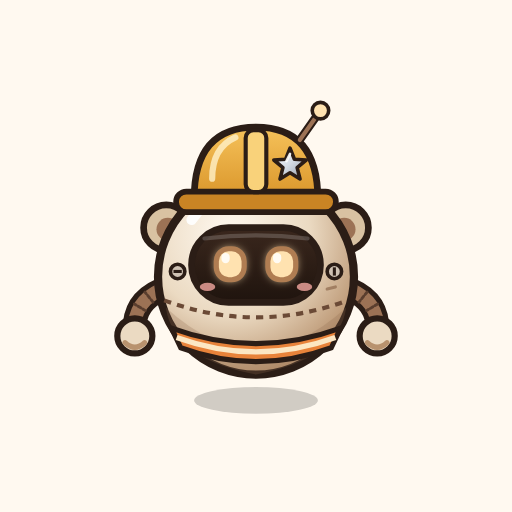
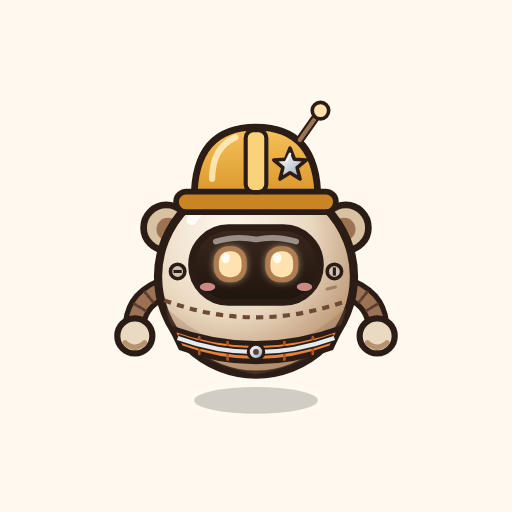
Cortado: unibrow and inflatable float belt; swim emote
- The faint screen glare line becomes a grey unibrow that changes with each
  emote face.
- The hi-vis band is redrawn as its own inflatable layer: stitched air
  chambers, reflective strip and a small valve.
- New swim emote: the belt puffs up into a float ring as water rises.
- Icons regenerated; icon cache version bumped.

Claude-Session: https://claude.ai/code/session_011WcNqT3TP7pNnC4TGZyJwm

Changed region(s): [[0.3438, 0.6562, 0.6562, 0.7188], [0.4062, 0.4375, 0.5938, 0.5]]

diff --git a/src/components/Mascot.jsx b/src/components/Mascot.jsx
@@ -7,7 +7,9 @@ import { useEffect, useRef, useState } from 'react';
 // fluffy, ringed brown-and-cream tail (a little like a red panda's) stays out
 // of sight from the front: at rest it wraps a small grip rung on the back,
 // taking the shape of a mug handle to carry it by. It only shows from the
-// front when wagging or in a fight.
+// front when wagging or in a fight. A grey unibrow sits on its face screen,
+// and its hi-vis belt is an inflatable layer of its own that puffs up into a
+// float ring by itself in water.
 //
 // Clicking Cortado plays the next emote. One of them swaps its headwear.
 export const MASCOT_HATS = [
@@ -24,6 +26,7 @@ const EMOTES = [
   { id: 'hop', label: 'hops', ms: 900 },
   { id: 'hat', label: 'swaps its headwear', ms: 800 },
   { id: 'dash', label: 'dashes on its wheels', ms: 1100 },
+  { id: 'swim', label: 'inflates its float belt', ms: 1600 },
   { id: 'sparkle', label: 'sparkles after a refill', ms: 1200 },
 ];
 const HAT_SWAP_AT = 300;
@@ -49,12 +52,20 @@ function Tail({ d }) {
   );
 }
 
-// A face-screen patch drawn over the mascot's own eyes (same 64×64 grid as mascot.svg).
+// The unibrow for each face, on the face screen above the eyes.
+const BROWS = {
+  happy: 'M24.2 28.3 Q28 27 32 27.9 Q36 27 39.8 28.3',
+  sparkle: 'M24.2 28.3 Q28 27 32 27.9 Q36 27 39.8 28.3',
+  focused: 'M24 28.2 Q28 28.6 32 30.2 Q36 28.6 40 28.2',
+};
+
+// A face-screen patch drawn over the mascot's own eyes and unibrow (same 64×64 grid as mascot.svg).
 function Face({ kind }) {
   const glow = { filter: 'drop-shadow(0 0 0.8px #FFE2B0)' };
   return (
     <g>
       <rect x="20.2" y="27.2" width="23.6" height="13.1" rx="6.5" fill="#2E1F17" />
+      <path d={BROWS[kind]} stroke="#9A8F88" strokeWidth="1.1" fill="none" strokeLinecap="round" strokeLinejoin="round" />
       <ellipse cx="22.6" cy="38" rx="1.6" ry="0.9" fill="#F4A7A0" />
       <ellipse cx="41.4" cy="38" rx="1.6" ry="0.9" fill="#F4A7A0" />
       {kind === 'happy' && (
@@ -122,7 +133,7 @@ export default function Mascot() {
   }
 
   const id = emote?.id;
-  const face = { wag: 'happy', hop: 'happy', dash: 'focused', sparkle: 'sparkle' }[id];
+  const face = { wag: 'happy', hop: 'happy', dash: 'focused', swim: 'happy', sparkle: 'sparkle' }[id];
 
   return (
     <button
@@ -167,9 +178,26 @@ export default function Mascot() {
             height="200"
           />
           {/* In front: new face and sparkles */}
-          {(face || id === 'sparkle') && (
+          {(face || id === 'sparkle' || id === 'swim') && (
             <svg className="mascot__layer mascot__layer--front" viewBox="0 0 64 64" aria-hidden="true">
               {face && <Face kind={face} />}
+              {id === 'swim' && (
+                <>
+                  {/* The float belt inflates into a ring, then the water rises around it */}
+                  <g className="mascot__ring">
+                    <path d="M10.6 44.4 Q32 55 53.4 44.4 Q57.6 48.6 53.4 52.8 Q32 63 10.6 52.8 Q6.4 48.6 10.6 44.4 Z" fill="#E8833A" stroke="#2B1D16" strokeWidth="1.1" />
+                    <path d="M18 47.4 Q17 51.6 18 55.7 M25 49.1 Q24.2 53.2 25 57.3 M39 49.1 Q39.8 53.2 39 57.3 M46 47.4 Q47 51.6 46 55.7" stroke="#B4561C" strokeWidth="0.6" fill="none" strokeLinecap="round" />
+                    <path d="M12.6 46.2 Q32 55.8 51.4 46.2" stroke="#F7B07A" strokeWidth="1.2" fill="none" strokeLinecap="round" />
+                    <path d="M8.6 49.4 Q32 60.6 55.4 49.4" stroke="#2B1D16" strokeWidth="2" fill="none" />
+                    <path d="M8.6 49.4 Q32 60.6 55.4 49.4" stroke="#E6EBF0" strokeWidth="1.2" fill="none" />
+                    <circle cx="32" cy="55" r="1.7" fill="#D5DBE3" stroke="#2B1D16" strokeWidth="0.6" />
+                  </g>
+                  <g className="mascot__water">
+                    <path d="M-10 57 Q-4 55 2 57 T14 57 T26 57 T38 57 T50 57 T62 57 T74 57 L74 66 L-10 66 Z" fill="#7FC4E2" opacity="0.6" />
+                    <path d="M-10 57 Q-4 55 2 57 T14 57 T26 57 T38 57 T50 57 T62 57 T74 57" stroke="#3F8FB5" strokeWidth="0.8" fill="none" />
+                  </g>
+                </>
+              )}
               {id === 'sparkle' && (
                 <>
                   <Star x={8} y={14} s={1.1} className="mascot__star" />

diff --git a/src/styles.css b/src/styles.css
@@ -278,6 +278,16 @@ button {
 .mascot--dash .mascot__rig { animation: cortado-dash 1.1s ease-in-out; }
 .mascot--dash .mascot__wheels { animation: cortado-wheels 1.1s ease-in-out forwards; }
 .mascot--dash .mascot__speed { animation: cortado-speed 1.1s linear forwards; }
+.mascot--swim .mascot__rig { animation: cortado-bob 1.6s ease-in-out; }
+.mascot--swim .mascot__ring {
+  transform-box: view-box;
+  transform-origin: 32px 52px;
+  animation: cortado-inflate 1.6s ease-out both;
+}
+.mascot--swim .mascot__water {
+  transform-box: view-box;
+  animation: cortado-water 1.6s ease-in-out both;
+}
 .mascot--sparkle .mascot__rig { animation: cortado-glow 1.2s ease-in-out; }
 .mascot--sparkle .mascot__star { animation: cortado-star 1.2s ease-out both; }
 .mascot--sparkle .mascot__star--2 { animation-delay: 0.12s; }
@@ -328,6 +338,26 @@ button {
   0%, 25% { opacity: 0; }
   40%, 60% { opacity: 1; }
   80%, 100% { opacity: 0; }
+}
+@keyframes cortado-bob {
+  0%, 100% { transform: none; }
+  25% { transform: translateY(6%); }
+  45% { transform: translateY(2%) rotate(-3deg); }
+  65% { transform: translateY(4%) rotate(3deg); }
+  85% { transform: translateY(3%); }
+}
+@keyframes cortado-inflate {
+  0% { opacity: 0; transform: scale(0.75, 0.45); }
+  25% { opacity: 1; transform: scale(0.8, 0.5); }
+  45% { transform: scale(1.06, 1.08); }
+  60%, 85% { opacity: 1; transform: none; }
+  100% { opacity: 0; transform: scale(0.75, 0.45); }
+}
+@keyframes cortado-water {
+  0% { opacity: 0; transform: translateY(10px); }
+  20%, 80% { opacity: 1; transform: none; }
+  50% { transform: translateX(-3px); }
+  100% { opacity: 0; transform: translateY(10px); }
 }
 @keyframes cortado-glow {
   0%, 100% { transform: none; filter: none; }

diff --git a/index.html b/index.html
@@ -10,12 +10,12 @@
     <meta name="theme-color" media="(prefers-color-scheme: light)" content="#EEF1F6" />
     <meta name="theme-color" media="(prefers-color-scheme: dark)" content="#0E1119" />
     <!-- Icons: ?v= busts the browser's favicon cache when Cortado changes -->
-    <link rel="icon" href="/favicon.ico?v=3" sizes="16x16 32x32 48x48" />
-    <link rel="icon" type="image/svg+xml" href="/mascot.svg?v=3" />
-    <link rel="icon" type="image/png" sizes="32x32" href="/icon-32.png?v=3" />
-    <link rel="icon" type="image/png" sizes="192x192" href="/icon-192.png?v=3" />
-    <link rel="apple-touch-icon" sizes="180x180" href="/apple-touch-icon.png?v=3" />
-    <link rel="manifest" href="/site.webmanifest?v=3" />
+    <link rel="icon" href="/favicon.ico?v=4" sizes="16x16 32x32 48x48" />
+    <link rel="icon" type="image/svg+xml" href="/mascot.svg?v=4" />
+    <link rel="icon" type="image/png" sizes="32x32" href="/icon-32.png?v=4" />
+    <link rel="icon" type="image/png" sizes="192x192" href="/icon-192.png?v=4" />
+    <link rel="apple-touch-icon" sizes="180x180" href="/apple-touch-icon.png?v=4" />
+    <link rel="manifest" href="/site.webmanifest?v=4" />
     <link rel="preconnect" href="https://fonts.googleapis.com" />
     <link rel="preconnect" href="https://fonts.gstatic.com" crossorigin />
     <link
